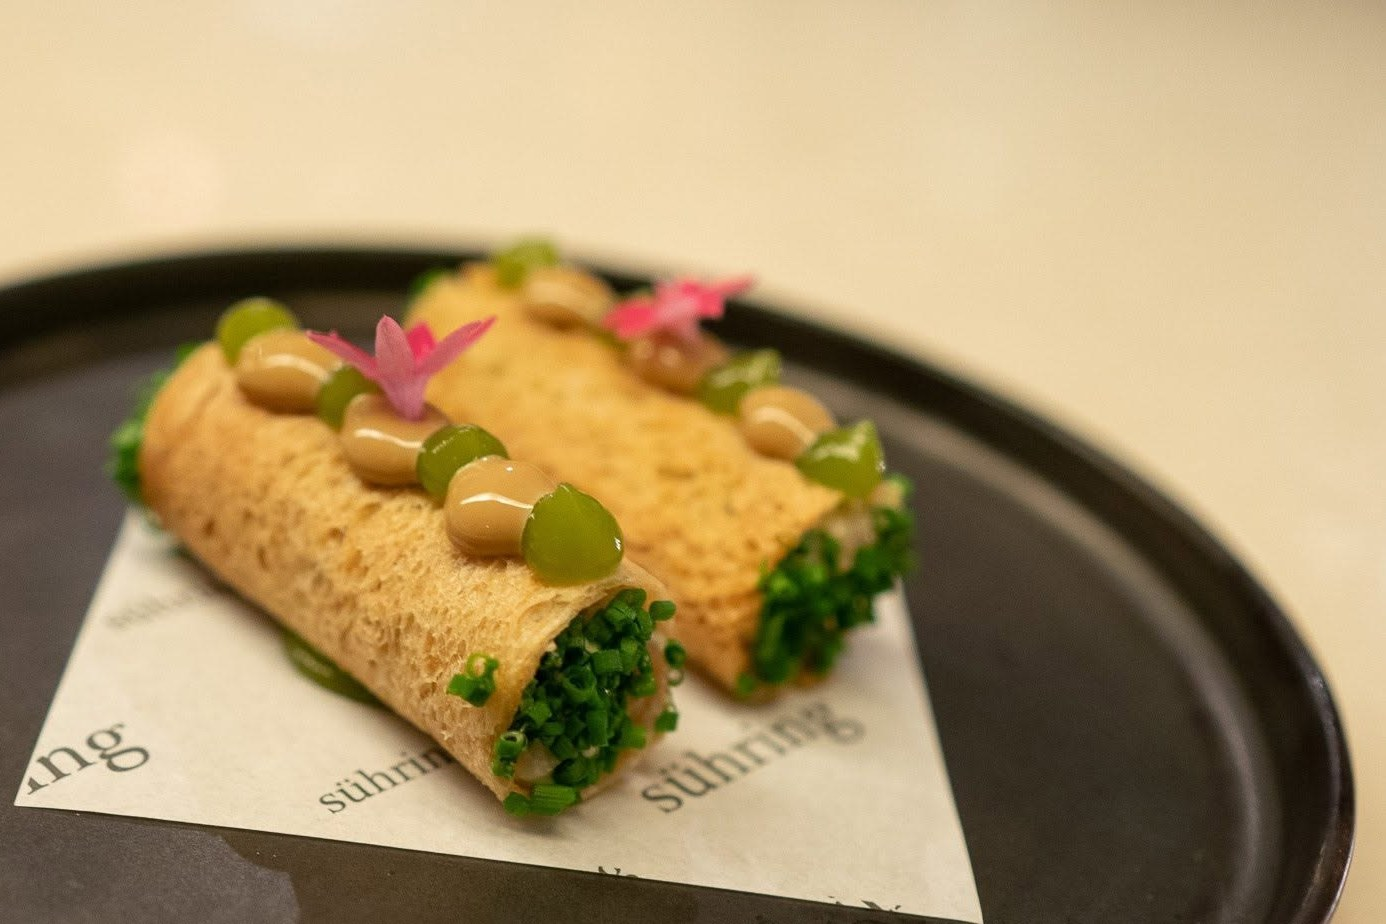
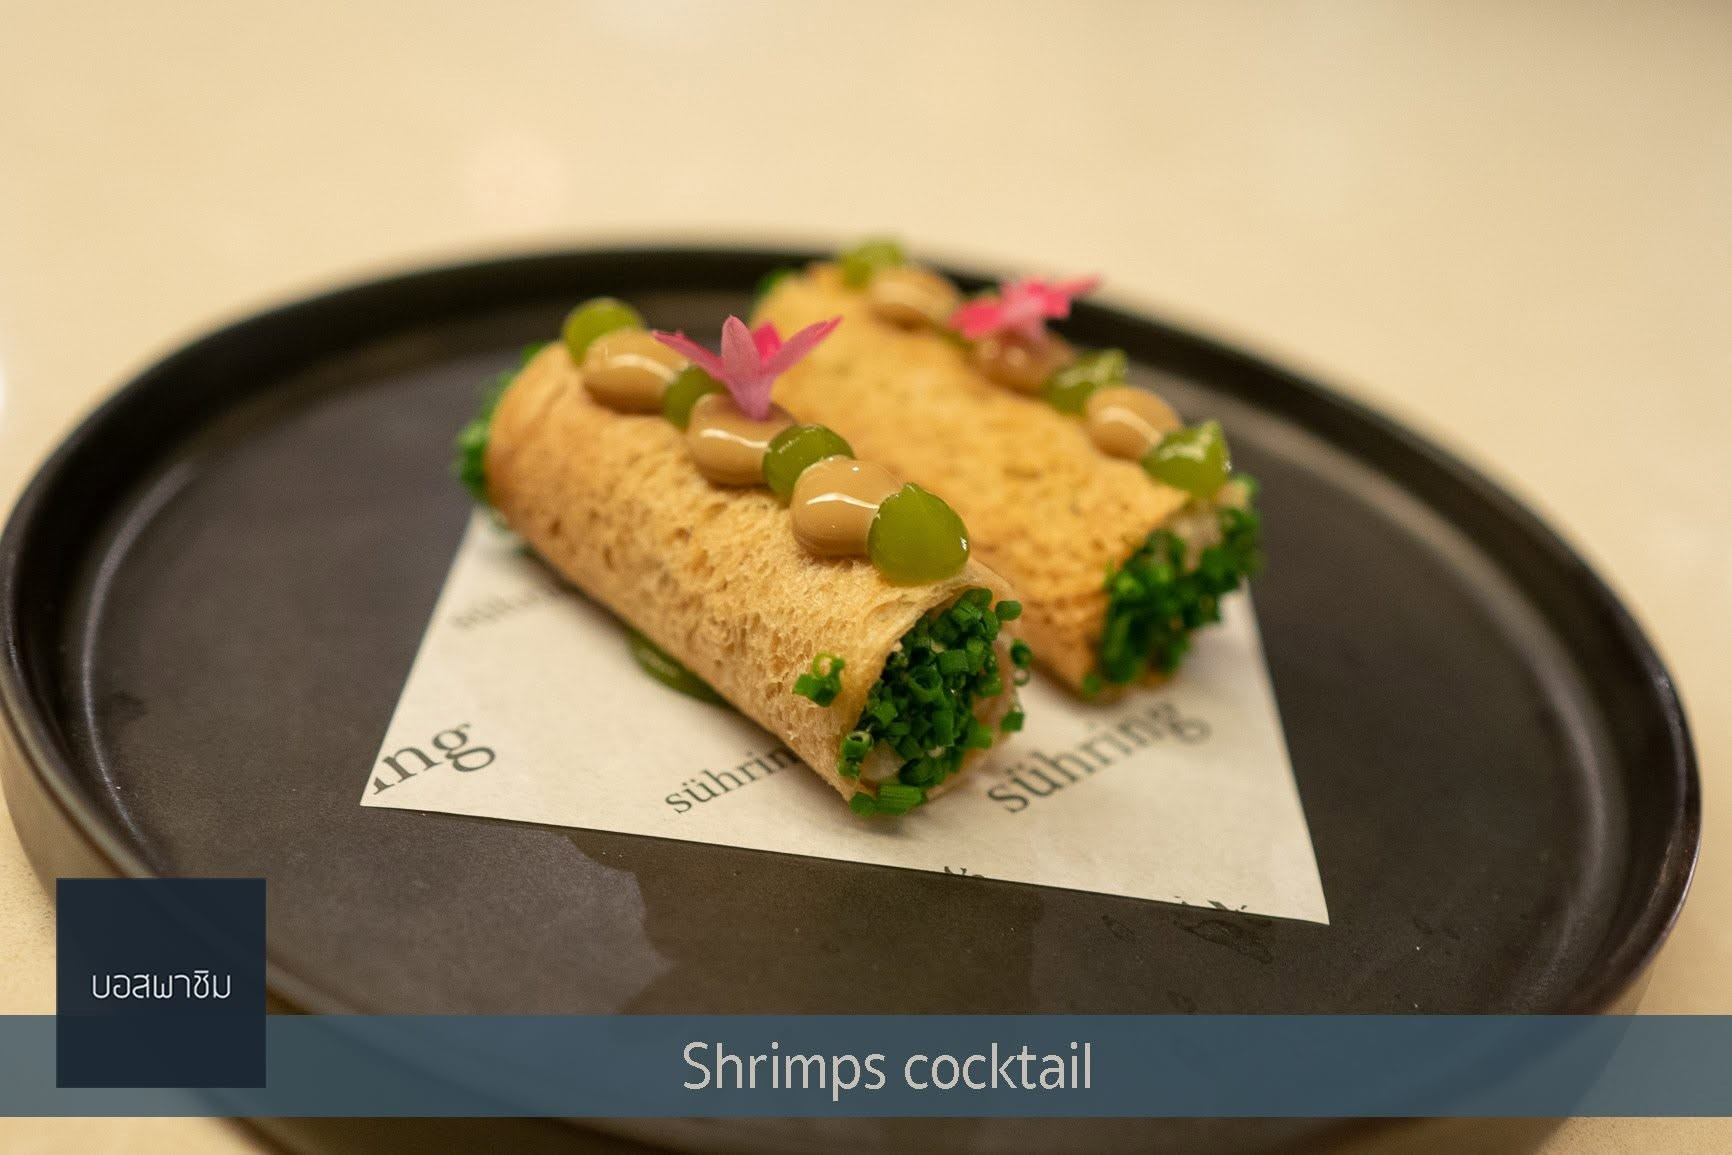
suhring-2018: use as-shot originals with caption bar (Boss OK 11 Nov); cover focus/zoom keeps bar out of 3:2
Claude-Session: https://claude.ai/code/session_017cY6J6uPkEjNrLqN3xSHNx

diff --git a/posts/suhring-2018.md b/posts/suhring-2018.md
@@ -8,7 +8,7 @@ restaurant:
   name: "Suhring"
   cuisine: "Other"
   awards: ["MICHELIN 1★"]
-cover: "./images/suhring-2018/cover.jpg | เนื้อเป็ดอบหั่นเสิร์ฟกับทรัฟเฟิลและผักบนจานขาว ร้าน Suhring กรุงเทพ"
+cover: "./images/suhring-2018/cover.jpg | เนื้อเป็ดอบหั่นเสิร์ฟกับทรัฟเฟิลและผักบนจานขาว ร้าน Suhring กรุงเทพ | focus=0.6,0.4 | zoom=1.25"
 bill: "~4000++ THB"
 billBand: "฿฿฿"
 visit: Oct-2018
